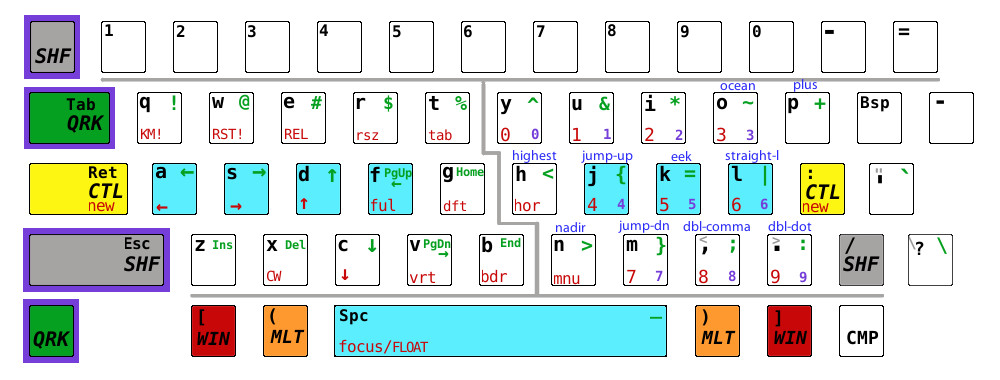
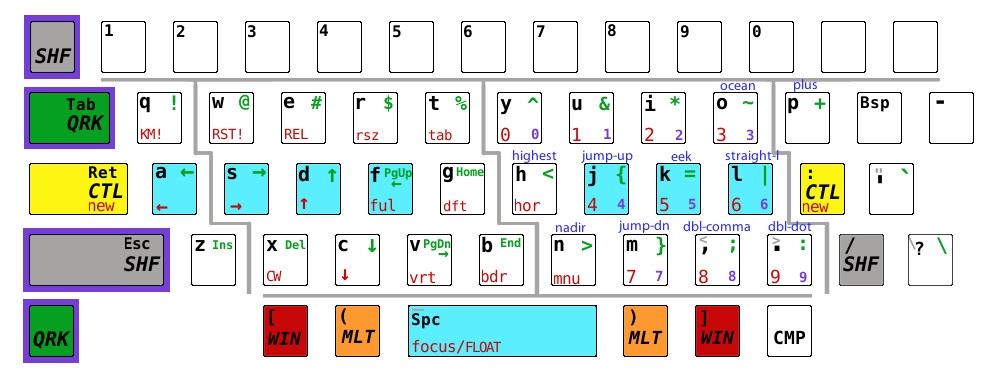
narrow spacebar

diff --git a/README.md b/README.md
@@ -4,8 +4,12 @@ QWERkey is a _modal_ keyboard layout for X11, optimized for staying on
 or near the home row.  It is suited for programming (using lots of
 symbols easily), particularly with Emacs and Vim, but is also a big
 improvement for typing prose, eliminating hard-to-reach keys.  It is
-even tuned for navigating a web browser with minimal finger
-movement.
+even tuned for fully mouselessly navigating a web browser with minimal
+finger movement.
+
+(Sorry this is so long; typing is just so much fun now!)
+
+![keymap diagram](https://raw.githubusercontent.com/MicahElliott/QWERkey/master/art/qrk-left-center.jpg)
 
 All of this is accomplished by a few novelties:
 
@@ -38,8 +42,6 @@ off the home row to reach for the mouse or Home/End/PgUp/PgDn/arrow
 (and maybe even number) keys (but you're still allowed to).  It is
 tragic to watch a youngster bouncing hands all around reaching for BSP
 et al on a traditional keyboard.  It's even very bad for adults.
-
-![keymap diagram](https://raw.githubusercontent.com/MicahElliott/QWERkey/master/art/qrk-left-center.jpg)
 
 Here's a feel for how little space your fingers actually need to
 cover.
@@ -122,7 +124,8 @@ they provide:
    harder
 
 2. A narrow, three-key wide spacebar, saving the thumbs from reaching
-   too far, enabling the use of five thumb keys (space, supers, metas)
+   under too far, enabling the use of five thumb keys (space, supers,
+   metas)
 
 3. Pure clickety-clackety joy
 
@@ -145,14 +148,15 @@ A real cheapo that works is the _Gear Head 89-Key Mini USB_ (find it
 on Amazon).  It feels a bit clunky, but if you only have $12 to spend,
 or just want to give QWERkey a whirl, go for this one for its
 life-changing 3-key-wide spacebar and easy-to-pop-off-and-exchange
-keys.  It's so slim and small that you can just set it right on top of
-your laptop keyboard.
+keys.  It's so slim and small that you can just set it stably right on
+top of your laptop keyboard.  I did this for a month and felt quite
+productive with it.  A great one to buy for every kid you know.
 
 I most often use the
 [Majestouch Minila](https://www.diatec.co.jp/en/det.php?prod_c=1320)
 with Cherry MX blues.  You can dip-switch the function keys to be
 mappable for QWERkey.  The keys are uniquely laid out in
-semi-ortholinear; a nice compromise.  Amazon usually has the stocked
+semi-ortholinear; a nice compromise.  Amazon usually has them stocked
 at ~$150.  You can find custom keycaps at
 [WASD Keyboards](http://www.wasdkeyboards.com/index.php/products.html)
 Use the provided `minila.modmap` with it.
@@ -294,6 +298,14 @@ zealots swear by it.
 
 ## Design Details, Philosophy, and Trade-offs (for the curious)
 
+Moving off the home row is awful for staying in a typing/navigating
+flow.  Vim goes a long way to solve this, but still we suffer from
+parts of QWERTY being too spread out.  Emacs relies on arrow keys for
+some things, like window movement and org-mode shortcuts.  Browsers,
+word processors, and other applications rely on navigational keys a
+lot.  So they need to be integrated somehow into the home row.  This
+is what QWERkey accomplishes.
+
 I'd prefer mnemonics for all symbols — imagine `Q-b → !` (_bang_),
 and `Q-e → =` (_equals_).  But we're just too dang used to `!@#$%^&*`
 up top.  So just stick with those.
@@ -336,17 +348,18 @@ research suggests that phone is more intuitive/natural.
 
 ### Mnemonics
 
+Many of the keys are the same as in QWERTY, but a few need slots, the
+only open ones being `opkl,.`
 
-`~` → _ocean_: Think of an "ocean wave".  This is an odd one, but it
+`~` → _**o**cean_: Think of an "ocean wave".  This is an odd one, but it
 does help to think of a symbol as a thing, rather than an action.
-I.e., I tried mentally mapping _pipe_ and _or(tho)_ for pipe-bar and
-or-bar, but _ocean_ was the easiest (probably only) way to remember
-`~`.
 
-`=` → _eek_: I've heard "equals" spoken as "eek", especially as in
-"eek-eek."
+`+` → _**p**lus_: easy peasy.
 
-`|` → _straight-l_: Think of this as a tall/narrow `l`.
+`=` → _ee**k**_: I've heard "equals" spoken as "eek", especially as in
+"eek-eek."  The _k_ is the only consonant and easy to emphasize.
+
+`|` → _straight-**l**_: Think of this as a tall/narrow `l`.
 
 
 ### Reaching for things
